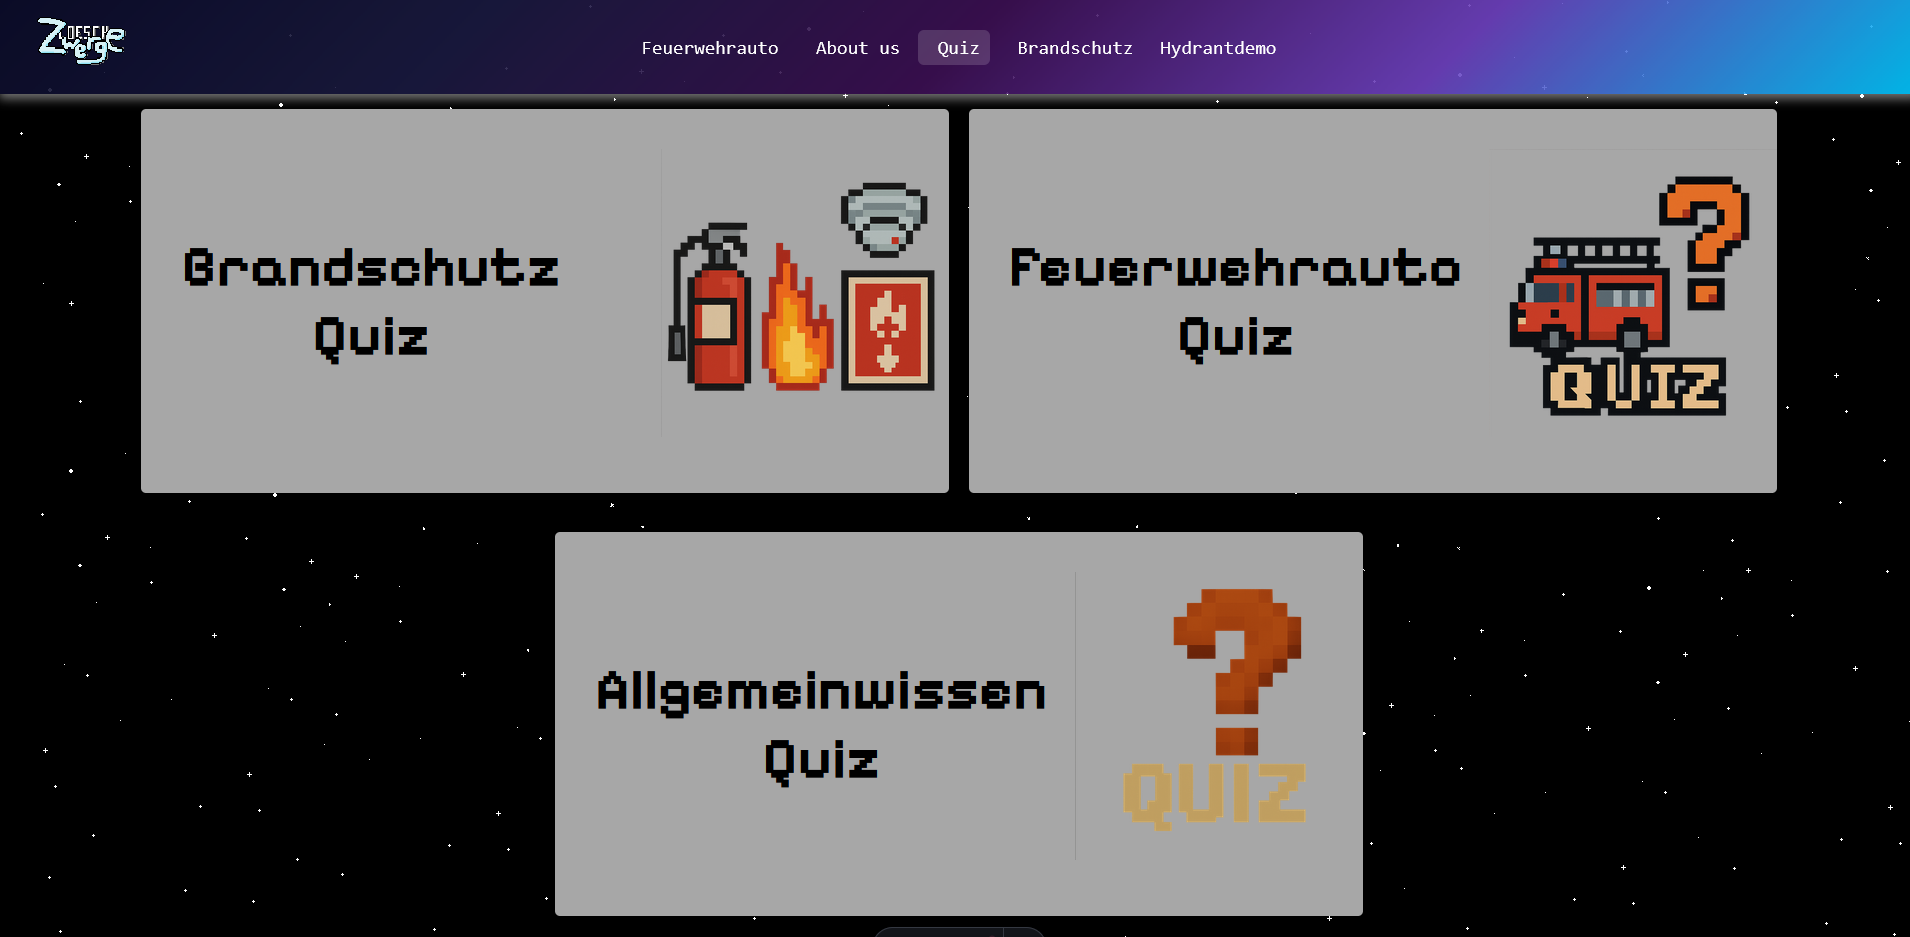
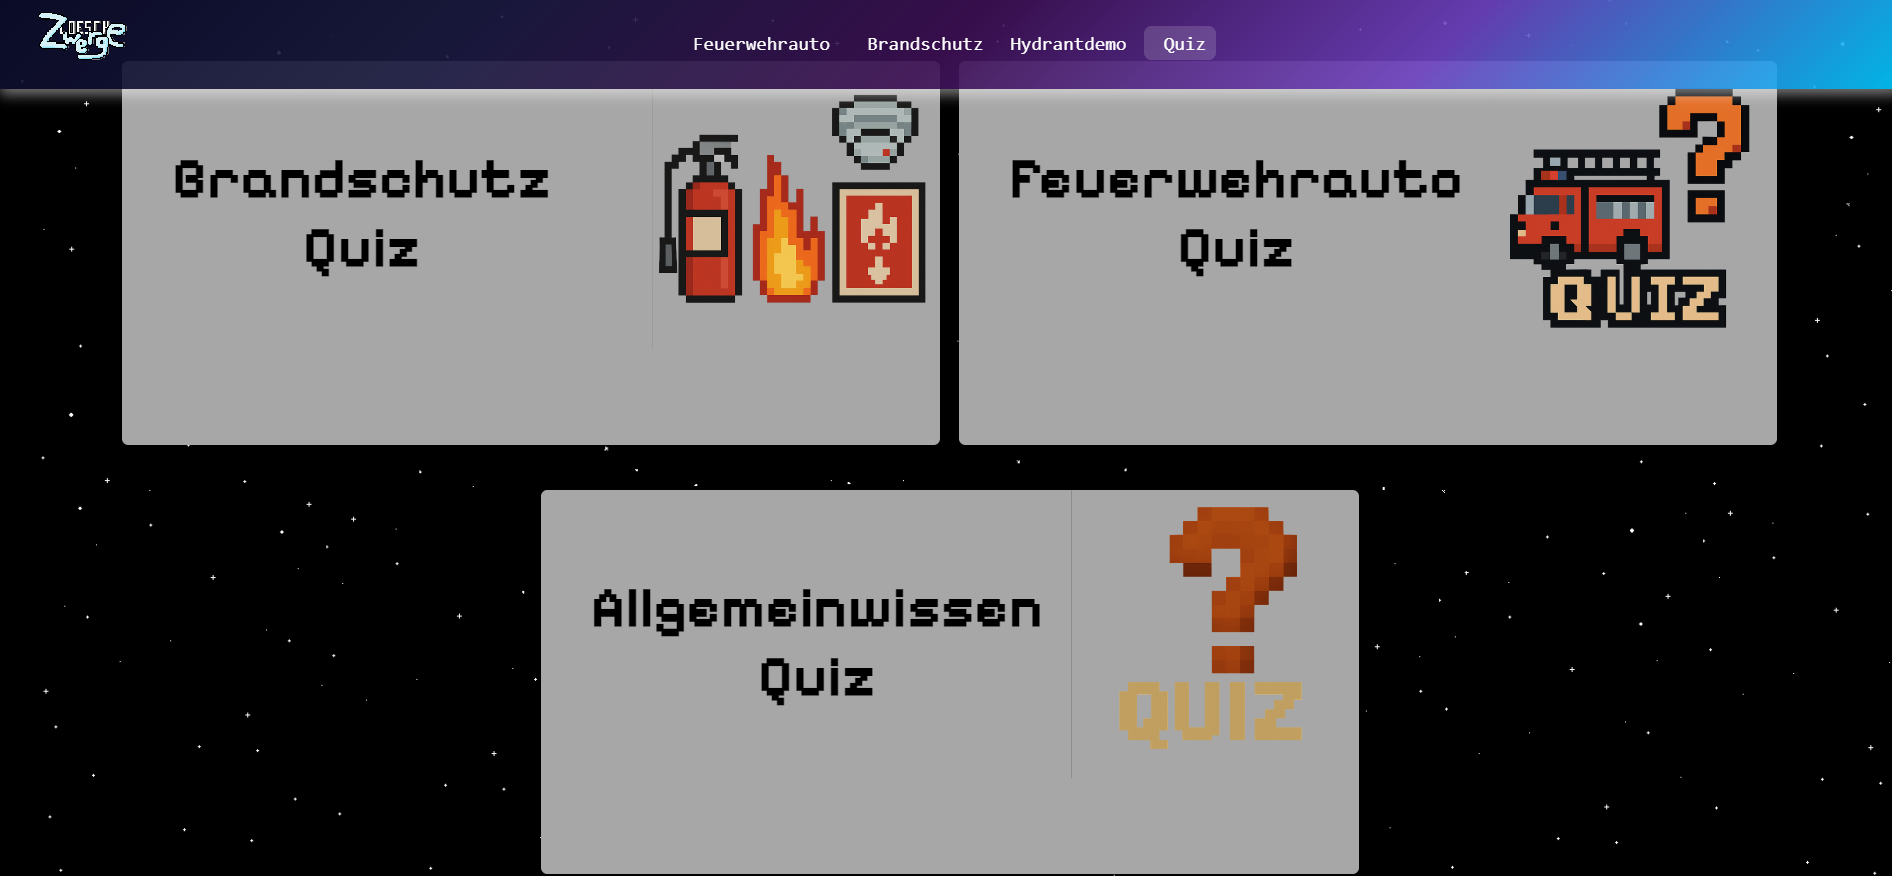
ReadMe

diff --git a/README.md b/README.md
@@ -16,13 +16,6 @@ Das Ziel der Website ist es, durch unser interaktives Feuerwehrauto, Lernvideos 
 3. [**Wie erreicht man die Website**](#wie-erreicht-man-die-website)
 4. [**Geplante Features für die Zukunft**](#geplante-features-für-die-zukunft)
 
-<br>
-2. [**Besondere Funktionen**](#besondere-funktionen)
-3. [**Wie erreicht man die Website**](#wie-erreicht-man-die-website)
-4. [**Geplante Features für die Zukunft**](#geplante-features-für-die-zukunft)
-
-<br>
-
 ## **Übersicht der Website**
 Die Website ist grundsätzlich in drei Teile aufgebaut. Es gibt die Startseite, welche Grundlagen der Feuerwehr nennt und erklärt, aber auch auf die Funktionen der Website hinweist. Dann gibt es einen Teil, welcher durch interaktives Design dem Benutzer Wissen vermittelt, welches schließlich durch passende Quizze geprüft werden kann.
 
@@ -41,6 +34,7 @@ Die Website ist grundsätzlich in drei Teile aufgebaut. Es gibt die Startseite, 
 <br>
 
 **Interaktive Rolltore**
+
 Sobald man als Nutzer mit einem der Rolltore des Fahrzeugs interagiert, öffnet sich eine neue Seite, auf welcher der Inhalt des gewählten Rolltors gezeigt, beschrieben und erklärt wird. Durch Interaktion mit den Elementen der mittleren Liste wird das Gerät ausgewählt, welches darauf hin im rechten Bild angezeigt wird. Durch Interaktion mit dem rechten Bild, kann man dann noch mehr über das Gerät selbst erfahren.
 ![](FrontEnd/public/README/Website_Showcase/G3_Showcase.png)
 
@@ -77,13 +71,21 @@ Sobald man als Nutzer mit einem der Rolltore des Fahrzeugs interagiert, öffnet 
 
 <br>
 
-## **Geplante Features für die Zukunft**
+## **Geplanter Kontent und Features für die Zukunft**
 
 ### **Belohnungen für erfolgreich abgeschlossenne Quizze**
     In Zukunft soll für das erfolgreiche Abschließen der Quizze Sammelobjekte erhalten werden.
     Dabei handelt es sich voraussichtlich um Sammelkarten im Pixel-Style, welche zu dem Thema Feuerwehrzwerge passen.
     Inwiefern der Sammelfortschritt gespeichert wird, steht noch nicht fest.
 
+### **Brandschutz und weitere Prävention**
+    Da viele Unfälle und Brände leicht vermieden, bzw. schnell unter Kontrolle gebracht werden können, liegt unser Fokus weiterhin dabei, Brandschutz und simple Erstmaßnahmen zu vermitteln, die oft schlimmeres verhindern können.
+
+### **Page für Erste-Hilfe**
+    Es ist ebenfalls eine Page vorgesehen, welche sich mit der Aufklärung über Erste-Hilfe befasst. Die Seite soll stark Kontent-Basiert sein und durch gezielt gewählte Bilder die richtige Erste-Hilfe vermitteln, welche selbst durch Laien problemlos durchgeführt werden kann.
+
+### **Informationen über den Standardangriff nach FwDv3**
+    Außerdem ist vorgesehen, durch eine interaktive Karte den standard Löschangriff nach Feuerwehr-Dienstvorschrift 3 (FwDv3) zu erläutern. Hierbei soll ein Schema genutzt werden, das durch interaktive Hotspots das Wissen spielerisch vermittelt. Das Schema repräsentiert den Fertig aufgebauten Löschangriff.
 
 [**Inhaltsverzeichnis**](#inhaltsverzeichnis)
 
